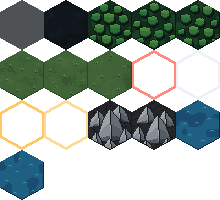
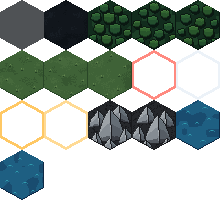
Games art: darker forest crowns (H10, the planner's item 1)
The crowns' lit tones were lighter than the grass's ground, so a forest tile
read as eleven small bright objects and a green dino, a hatchling or a fern
standing in it sank into them. Forest is where the player hides and where
half the food is: what stands in it must be read before the forest is. The
crowns are now #234F2E and #28552B; shapes, places, shadows, floor and edge
unchanged (H48).

diff --git a/tools/games-art/hatchling/terrain.js b/tools/games-art/hatchling/terrain.js
@@ -169,8 +169,13 @@ const FLOOR = mix(F.shadow, F.outline, 0.35);
 const FLOOR_LIGHT = mix(F.shadow, FOREST, 0.35);
 const FOREST_EDGE = F.outline;
 // Two crown greens, a little brighter than the floor so the crowns stand out
-// of it, and unlike each other so a canopy is not one stamp repeated.
-const CROWNS = ["#2C6A3A", "#356F35"];
+// of it, and unlike each other so a canopy is not one stamp repeated. No
+// lighter than the grass beside them (the planner's H10 verdict, H48): the
+// first greens lit to tones above the grass's ground, so a forest tile was
+// eleven bright objects and a green dino, a hatchling or a fern standing in it
+// was one more. Dark crowns let whatever stands in a forest be read before the
+// forest is.
+const CROWNS = ["#234F2E", "#28552B"];
 
 // A tree crown as the engine draws a dino's body: a lumpy round mass (a big
 // lobe and smaller ones on its shoulders), lit on top, shaded below, outlined
